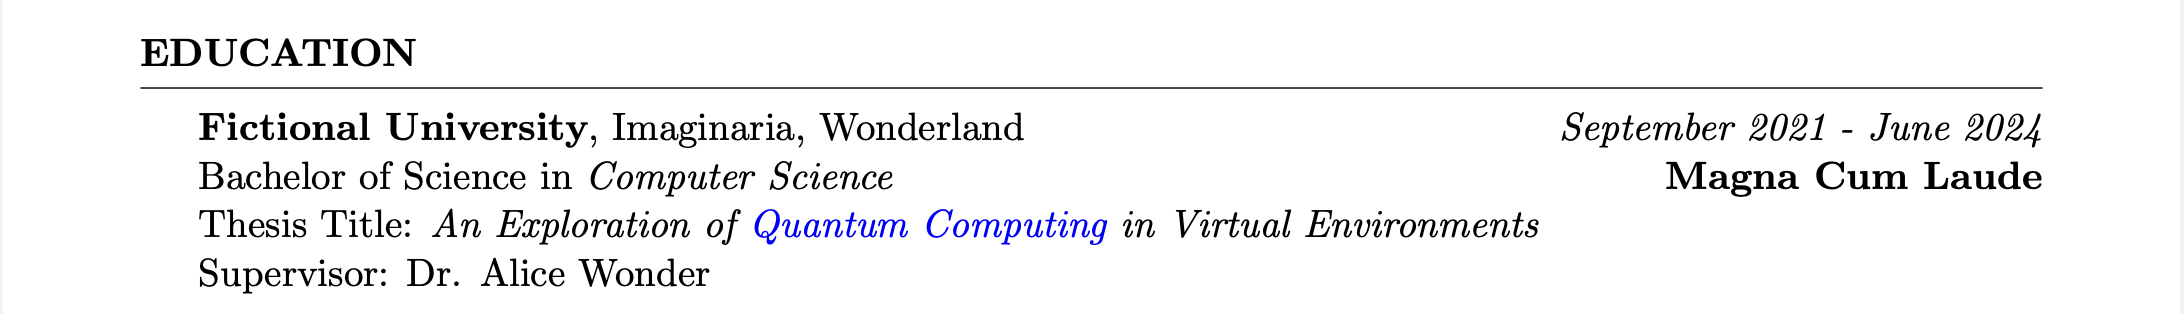
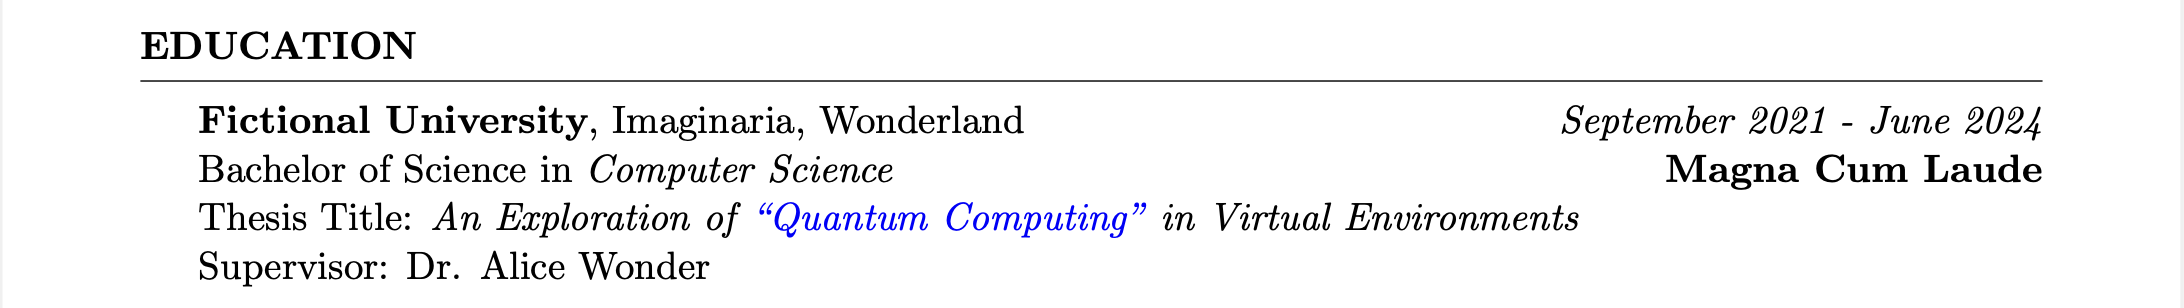
feat: support quoted phrases

diff --git a/scripts/generate_latex.py b/scripts/generate_latex.py
@@ -96,6 +96,9 @@ def decode_special_characters(text):
     text = re.sub(r'\t', r'\\quad ', text)     # Replace tab with \quad
     text = re.sub(r' {2}', r'\\ ', text)       # Replace 2 spaces with a small space in LaTeX
 
+    # Convert 'quoted text' to LaTeX-style quotes ``quoted text''
+    text = re.sub(r"(?<!\w)'([^']+)'(?!\w)", r"``\1''", text)
+
     # Add more conversions if needed
 
     return text

diff --git a/README.md b/README.md
@@ -530,6 +530,10 @@ When configuring your YAML files, you might want to include special formatting w
   - To add a small space, use two spaces (e.g., `"Text  2 spaces later"`).
   - To add an "em" space, use four spaces or a tab (e.g., `"Text    4 spaces later"` or `"Text\twith a tab"`).
 
+- **Quotes**
+  - Always use single quotes for quoted phrases (e.g., 'Data Science Club') to avoid issues with double quotes inside YAML.
+  - cv-tools will automatically convert these into proper LaTeX-style double quotes (``like this'') during rendering.
+
 Here’s an example YAML configuration that utilizes these special characters:
 
 ```yaml
@@ -544,7 +548,7 @@ sections:
         dates: "September 2021 - June 2024"
         degree: "Bachelor of Science in *Computer Science*"
         honors: "**Magna Cum Laude**"
-        thesis_title: "An Exploration of [Quantum Computing](https://en.wikipedia.org/wiki/Quantum_computing) in Virtual Environments"
+        thesis_title: "An Exploration of ['Quantum Computing'](https://en.wikipedia.org/wiki/Quantum_computing) in Virtual Environments"
         supervisor: "Dr. Alice Wonder"        
 ```
 ![special-characters-section](docs/img/special-characters-section.png)

diff --git a/CHANGELOG.md b/CHANGELOG.md
@@ -11,9 +11,11 @@ and this project adheres to [Semantic Versioning](https://semver.org/spec/v2.0.0
 - Add `--tex-only` option to run.sh command to optionally allow users to only generate a tex file
 - Bold the author name in publications if it matches with heading name
 - Add `title` field to talks section (breaking change, old version users need to add this field to show the title for this section)
+- Add decoding of 'quoted text' to LaTeX-style quotes ``quoted text''
 
 ### Changed
 - Update README to support `--tex-only` option
+- Update README to include quotes subsection under special characters
 
 ### Deprecated
 
